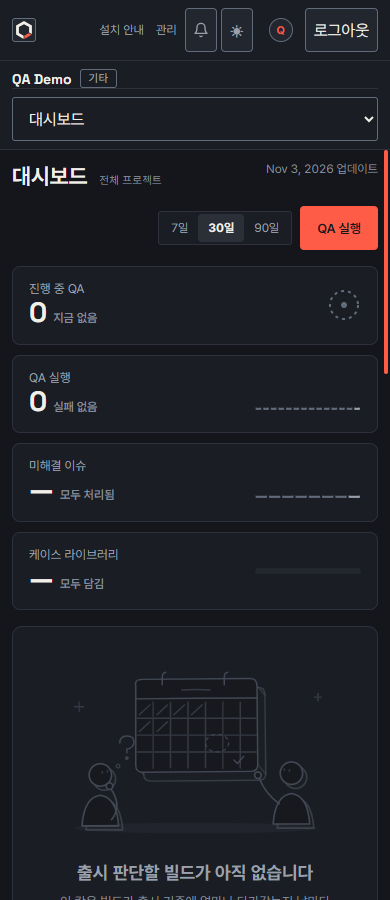
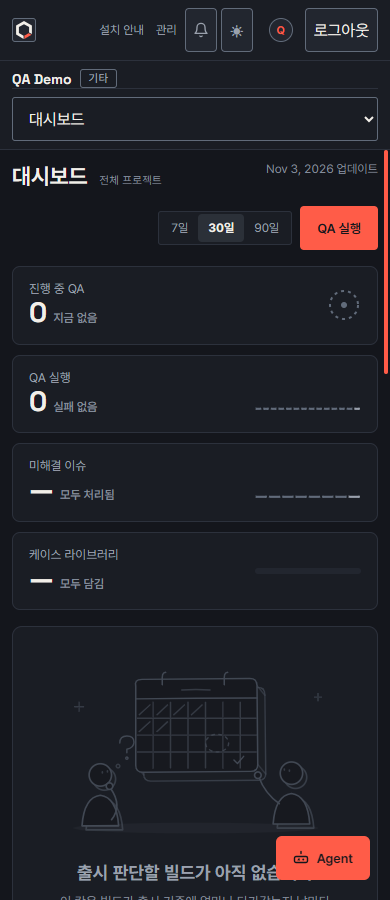
fix: 접힌 프로젝트 대화창을 우측 하단 버튼으로 변경

Changed region(s): [[0.7077, 0.9022, 0.9538, 0.9956]]

diff --git a/src/projects/workspace/ProjectWorkspace.tsx b/src/projects/workspace/ProjectWorkspace.tsx
@@ -5,7 +5,7 @@ import { QaFinishedNotice } from '../../qa/QaFinishedNotice'
 import { CaseReviewNotice } from '../../testCases/CaseReviewNotice'
 import { ScenarioReviewNotice } from '../../testScenarios/ScenarioReviewNotice'
 import { OperatorQuestions } from '../../qa/evaluation/OperatorQuestions'
-import { Link, Navigate, Outlet, useLocation, useMatch, useParams } from 'react-router-dom'
+import { Link, Navigate, Outlet, useLocation, useMatch, useNavigate, useParams } from 'react-router-dom'
 import { useI18n } from '../../i18n/useI18n'
 import { AgentChatPanel, AgentReopenButton, AgentSplitHandle } from '../../projectAgent/AgentDock'
 import { AgentSessionProvider } from '../../projectAgent/chat/AgentSessionProvider'
@@ -68,6 +68,7 @@ function ProjectWorkspace({ projectId }: { projectId: string }) {
   const extras = useWorkspaceExtras(projectId)
   const { t } = useI18n()
   const { pathname } = useLocation()
+  const navigate = useNavigate()
   // rail 을 접으면 페이지 칸이 168px 넓어질 뿐이라, 대화창 폭 상한은 펼친 rail 폭으로 계산한다.
   const dock = useAgentDock(projectId, pathname, PROJECT_RAIL_PX)
   // 페이지가 대화를 자기 칸에 직접 그리는 동안(시나리오 화면의 project 모드) dock 을 숨긴다.
@@ -181,9 +182,11 @@ function ProjectWorkspace({ projectId }: { projectId: string }) {
 
   if (dock.fullPage && !dock.enabled) return <Navigate replace to={'/projects/' + encodeURIComponent(projectId)} />
   const agentHome = dock.enabled && dock.fullPage
+  const mobile = dock.viewportWidth <= 720
+  const showLauncher = dock.enabled && !agentHome && !pageHostsChat && (mobile || !dockOpen)
   const workspaceClass =
     'project-workspace' +
-    (dockOpen ? (agentHome ? ' has-agent-home' : ' has-agent') : dock.enabled && !pageHostsChat ? ' has-agent-closed' : '') +
+    (dockOpen ? (agentHome ? ' has-agent-home' : ' has-agent') : '') +
     (dock.splitting ? ' is-splitting' : '')
 
   // 대화 session 은 대화창 밖에 둔다. 대화창을 닫아도 agent 가 하던 일을 계속한다.
@@ -247,12 +250,15 @@ function ProjectWorkspace({ projectId }: { projectId: string }) {
 
       {dockOpen && !agentHome && <AgentSplitHandle {...dock.handle} />}
       {dockOpen && <AgentChatPanel onClose={agentHome ? undefined : dock.closeChat} wide={agentHome} />}
-      {dock.enabled && !dockOpen && !pageHostsChat && <AgentReopenButton onOpen={dock.openChat} />}
-      {/* 오른쪽 아래 알림은 한 줄로 쌓는다. 비어 있으면 자리를 차지하지 않는다. */}
-      <div aria-live="polite" className="qa-notice-stack">
-        <CaseReviewNotice projectId={projectId} />
-        <ScenarioReviewNotice projectId={projectId} />
-        <QaFinishedNotice projectId={projectId} />
+      <div className="workspace-corner">
+        <div aria-live="polite" className="qa-notice-stack">
+          <CaseReviewNotice projectId={projectId} />
+          <ScenarioReviewNotice projectId={projectId} />
+          <QaFinishedNotice projectId={projectId} />
+        </div>
+        {showLauncher && (
+          <AgentReopenButton onOpen={mobile ? () => navigate('/projects/' + encodeURIComponent(projectId) + '/chat') : dock.openChat} />
+        )}
       </div>
     </div>
     </ProjectAgentProviders>

diff --git a/src/App.css b/src/App.css
@@ -5619,16 +5619,6 @@ button.qa-row-body--linked:hover{ background:var(--color-bg-hover); }
   grid-template-columns: 48px minmax(0, 1fr) 6px var(--agent-chat-w);
 }
 
-/* 닫혀 있으면 오른쪽 40px 칸에 다시 열기 버튼만 남는다. */
-.project-workspace.has-agent-closed {
-  grid-template-columns: 216px minmax(0, 1fr) 40px;
-}
-
-.project-workspace.has-agent-closed:has(.project-nav--collapsed) {
-  grid-template-columns: 48px minmax(0, 1fr) 40px;
-}
-
-
 .project-workspace.is-splitting {
   cursor: col-resize;
   user-select: none;
@@ -6461,16 +6451,13 @@ button.qa-row-body--linked:hover{ background:var(--color-bg-hover); }
   .project-workspace.has-agent,
   .project-workspace.has-agent-home,
   .project-workspace.has-agent:has(.project-nav--collapsed),
-  .project-workspace.has-agent-home:has(.project-nav--collapsed),
-  .project-workspace.has-agent-closed,
-  .project-workspace.has-agent-closed:has(.project-nav--collapsed) {
+  .project-workspace.has-agent-home:has(.project-nav--collapsed) {
     grid-template-columns: minmax(0, 1fr);
   }
 
 
   .project-workspace > .agent-panel,
-  .project-workspace > .agent-dock-split,
-  .project-workspace > .agent-reopen-rail {
+  .project-workspace > .agent-dock-split {
     display: none;
   }
 
@@ -13522,9 +13509,21 @@ col.vimp-c-scene{ width:18% } col.vimp-c-verdict{ width:16% }
 .qh-tile-review { display: inline-flex; align-items: center; gap: 4px; margin-top: 6px; padding: 0 7px; border-radius: 999px; font-size: 11px; font-weight: 600; color: var(--color-agent-reasoning); border: 1px solid color-mix(in srgb, var(--color-agent-reasoning) 55%, transparent); }
 .qh-tile-review .qv-dot { width: 6px; height: 6px; }
 .qh-tile-review.is-done { color: var(--color-text-muted); border-color: var(--color-border-subtle); }
-.qa-notice-stack { position: fixed; right: 20px; bottom: 20px; z-index: 300; display: flex; flex-direction: column; gap: 10px; }
+.workspace-corner {
+  position: fixed;
+  right: max(var(--space-5), env(safe-area-inset-right));
+  bottom: max(var(--space-5), env(safe-area-inset-bottom));
+  z-index: 300;
+  display: flex;
+  flex-direction: column;
+  gap: var(--space-2);
+  pointer-events: none;
+}
+.qa-notice-stack { display: flex; flex-direction: column; gap: 10px; }
+.qa-notice-stack:empty { display: none; }
+.qa-notice-stack > * { pointer-events: auto; }
 /* 알림이 팝업의 버튼을 가리지 않게, 팝업이 떠 있는 동안 숨긴다. */
-body:has(.dialog-scrim) .qa-notice-stack { visibility: hidden; }
+body:has(.dialog-scrim) .workspace-corner { visibility: hidden; }
 .qa-notice { width: min(380px, calc(100vw - 40px)); padding: 14px 16px; border: 1px solid var(--color-border-strong); border-left: 3px solid var(--color-agent-reasoning); border-radius: 10px; background: var(--color-bg-raised); box-shadow: 0 14px 40px rgb(0 0 0 / 45%); }
 .qa-notice-head { display: flex; align-items: center; gap: 8px; font-size: 14px; }
 .qa-notice-head svg { color: var(--color-agent-reasoning); flex: none; }

diff --git a/src/projectAgent/agentDock.css b/src/projectAgent/agentDock.css
@@ -66,31 +66,19 @@
 .agent-composer__actions .button--primary:hover:not(:disabled) { background: var(--color-action-primary-strong); }
 .agent-composer__actions .button:disabled { opacity: 0.4; }
 
-/* 닫힌 대화창 자리의 40px 칸. 페이지 위에 떠 있으면 RunChat 의 보내기 버튼 같은 페이지 내용을
-   가리므로, grid 의 마지막 칸으로 따로 둔다. 버튼은 세로 가운데에 112px 높이로 선다. */
-.agent-reopen-rail {
-  display: flex; align-items: center; min-height: 0;
-  border-left: 1px solid var(--color-border-subtle); background: var(--color-bg-surface);
+.agent-reopen.button {
+  position: relative;
+  align-self: flex-end;
+  min-height: 44px;
+  border-radius: var(--radius-lg);
+  pointer-events: auto;
 }
-.agent-reopen {
-  width: 100%; height: 112px; padding: 0; box-sizing: border-box;
-  display: flex; flex-direction: column; align-items: center; justify-content: center; gap: 8px;
-  background: transparent; color: var(--color-action-primary); font-family: var(--font-sans);
-  border: 0; cursor: pointer;
-  transition: background 120ms var(--ease-standard);
-}
-.agent-reopen:hover { background: var(--color-bg-hover); }
-.agent-reopen__icon { position: relative; display: inline-grid; place-items: center; }
 /* 닫힌 대화창에서 사용자를 기다리는 것(승인, 질문, 끝난 job)의 수. 숫자로도 말하므로 색만으로 전하지 않는다. */
 .agent-reopen__badge {
   position: absolute; top: -8px; right: -10px; min-width: 16px; height: 16px; padding: 0 4px; box-sizing: border-box;
   display: inline-grid; place-items: center; border-radius: 999px;
   background: var(--color-status-warning); color: var(--color-text-on-accent);
   font-size: 10px; font-weight: 700; line-height: 1; font-variant-numeric: tabular-nums;
-}
-.agent-reopen__label {
-  writing-mode: vertical-rl; font-size: 13px; font-weight: 600; letter-spacing: 0.04em;
-  color: var(--color-text-primary);
 }
 
 /* SplitHandle 의 class 는 `.scenario-studio` 밑에서만 꾸며지므로 여기서 따로 꾸민다. */
@@ -123,7 +111,6 @@
 .agent-reopen:focus-visible {
   outline: 2px solid var(--color-action-primary); outline-offset: 2px;
 }
-.agent-reopen:focus-visible { outline-offset: -2px; }
 
 @media (prefers-reduced-motion: reduce) {
   .agent-icon-button,

diff --git a/src/projectAgent/AgentDock.tsx b/src/projectAgent/AgentDock.tsx
@@ -153,32 +153,24 @@ function EmptyState({ onPick }: { onPick?: (text: string) => void }) {
   )
 }
 
-/**
- * 닫힌 대화창을 다시 여는 버튼. workspace grid 의 오른쪽 마지막 칸에 선다.
- * badge 는 `AgentSessionProvider` 에서 읽는다. 승인 대기, 질문 대기, 아직 보지 않은 끝난 job 의 수다.
- */
 export function AgentReopenButton({ onOpen }: { onOpen: () => void }) {
   const { t } = useI18n()
   const badgeCount = useAgentSession()?.badge.count ?? 0
   return (
-    <div className="agent-reopen-rail">
-      <button
-        aria-label={badgeCount > 0 ? t.projectAgent.chat.reopenWithBadge(badgeCount) : t.projectAgent.reopen}
-        className="agent-reopen"
-        onClick={onOpen}
-        type="button"
-      >
-        <span className="agent-reopen__icon">
-          <AgentIcon />
-          {badgeCount > 0 && (
-            <span aria-hidden="true" className="agent-reopen__badge">
-              {badgeCount > 9 ? '9+' : badgeCount}
-            </span>
-          )}
+    <button
+      aria-label={badgeCount > 0 ? t.projectAgent.chat.reopenWithBadge(badgeCount) : t.projectAgent.reopen}
+      className="button button--primary agent-reopen"
+      onClick={onOpen}
+      type="button"
+    >
+      <AgentIcon />
+      {t.projectAgent.agentName}
+      {badgeCount > 0 && (
+        <span aria-hidden="true" className="agent-reopen__badge">
+          {badgeCount > 9 ? '9+' : badgeCount}
         </span>
-        <span className="agent-reopen__label">{t.projectAgent.agentName}</span>
-      </button>
-    </div>
+      )}
+    </button>
   )
 }
 
